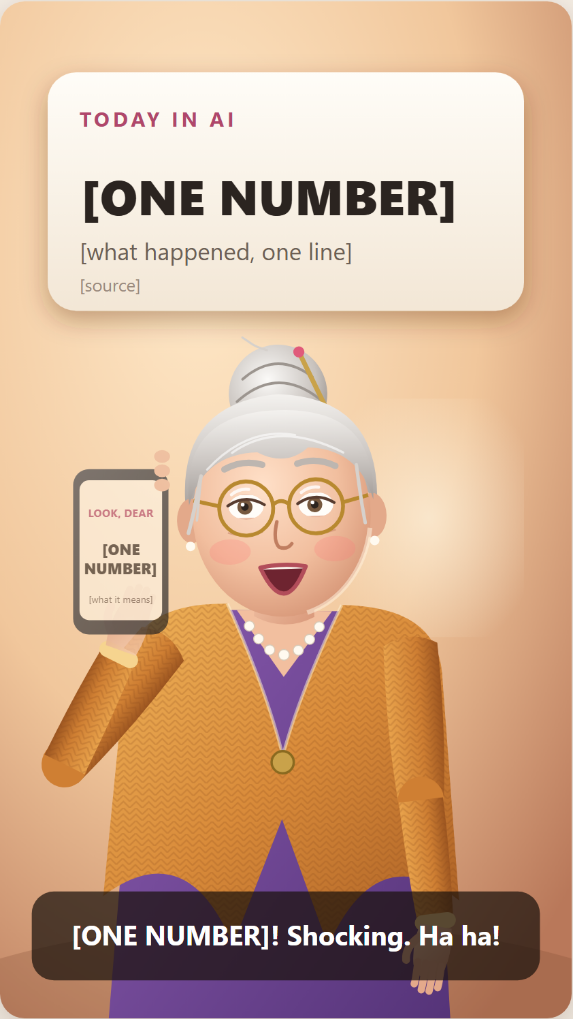
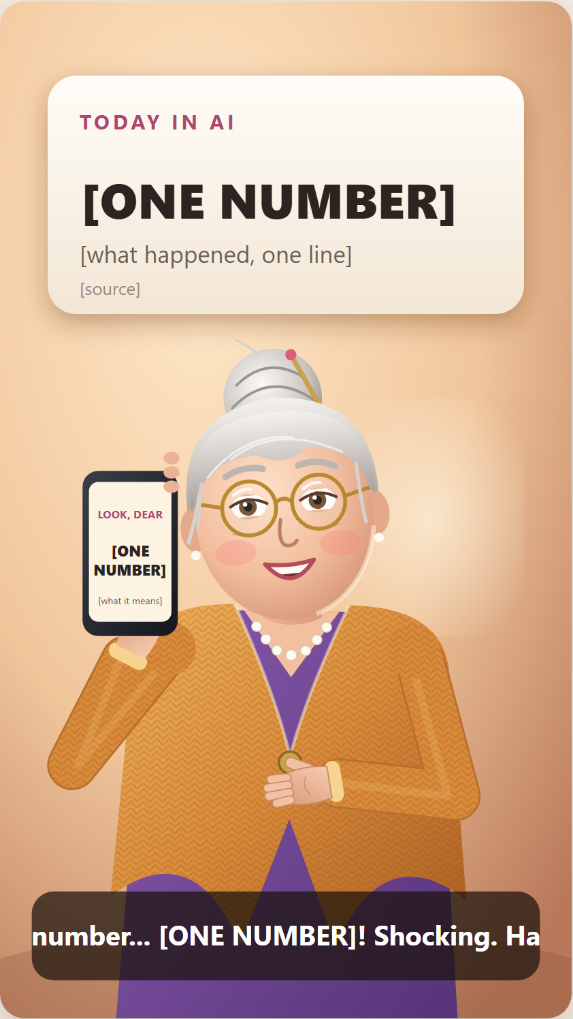
recap-hosts: continuous tapered arms, fuller hands, phone pose fix, head-turn foreshortening
Claude-Session: https://claude.ai/code/session_01XLP2hGqkmrH6KbGBKwUiDd

diff --git a/recap-hosts/js/gigi.js b/recap-hosts/js/gigi.js
@@ -17,26 +17,34 @@ function noise(seed){const p=[rnd(0,6.28),rnd(0,6.28),rnd(0,6.28)];return t=>(Ma
 function buildArm(side){
   const g=$(side<0?'armL':'armR');
   const sx=side*80, sy=-36;
+  // one continuous sleeve: shoulder->elbow->wrist drawn as round-joined strokes in the same fill (updated per frame)
+  const sleeveDark=el('path',{fill:'none',stroke:'#b8702f','stroke-width':31.5,'stroke-linecap':'round','stroke-linejoin':'round'},g);
+  const sleeve=el('path',{fill:'none',stroke:'#d98b3a','stroke-width':29,'stroke-linecap':'round','stroke-linejoin':'round'},g);
+  const sleeveKnit=el('path',{fill:'none',stroke:'url(#knit)','stroke-width':29,'stroke-linecap':'round','stroke-linejoin':'round'},g);
+  const sleeveHi=el('path',{fill:'none',stroke:'#f6c27a','stroke-opacity':.22,'stroke-width':5,'stroke-linecap':'round','stroke-linejoin':'round'},g);
+  // shawl drapes over the top of the sleeve, so the arm reads as coming out from under it
+  el('ellipse',{cx:side*-3,cy:-2,rx:17,ry:17,fill:'#d98b3a'},g);
+  el('ellipse',{cx:side*-3,cy:-2,rx:17,ry:17,fill:'url(#knit)'},g);
   const up=el('g',{},g);
-  el('path',{d:'M-17 -6 Q-19 50 -14 96 L14 96 Q19 50 17 -6 Q0 -16 -17 -6 Z',fill:'url(#sleeveG)'},up);
-  el('path',{d:'M-17 -6 Q-19 50 -14 96 L14 96 Q19 50 17 -6 Q0 -16 -17 -6 Z',fill:'url(#knit)'},up);
   const fo=el('g',{},up);
-  el('circle',{cx:0,cy:0,r:14.5,fill:'#cf7f33'},fo);
-  el('path',{d:'M-14 0 Q-14 44 -11 80 L11 80 Q14 44 14 0 Z',fill:'url(#sleeveG)'},fo);
-  el('path',{d:'M-14 0 Q-14 44 -11 80 L11 80 Q14 44 14 0 Z',fill:'url(#knit)'},fo);
-  el('rect',{x:-13,y:72,width:26,height:10,rx:5,fill:'#f6d48f'},fo);
   const hand=el('g',{},fo);
-  // relaxed / open hand
+  el('rect',{x:-13,y:-8,width:26,height:10,rx:5,fill:'#f6d48f'},hand);
+  const sk='#eab296', skD='#c98a6c';
+  const finger=(par,x1,y1,x2,y2,w)=>{el('path',{d:`M${x1} ${y1} L${x2} ${y2}`,stroke:skD,fill:'none','stroke-width':w+1.4,'stroke-linecap':'round'},par);el('path',{d:`M${x1} ${y1} L${x2} ${y2}`,stroke:'#f2c0a2',fill:'none','stroke-width':w,'stroke-linecap':'round'},par);};
+  // relaxed / open hand: palm + thumb + 4 fingers
   const open=el('g',{},hand);
-  el('path',{d:`M-10 0 Q-13 14 -10 26 Q-6 34 0 34 Q8 34 10 26 Q13 14 10 0 Z`,fill:'url(#skinL)'},open);
-  for(let i=0;i<4;i++){const x=-7.5+i*5;el('path',{d:`M${x} 24 Q${x+0.5} 36 ${x} ${38+(i==1||i==2?3:0)}`,stroke:'#e4a98b',fill:'none','stroke-width':4.6,'stroke-linecap':'round'},open);}
-  el('path',{d:`M${side*-9} 8 Q${side*-17} 16 ${side*-15} 24`,stroke:'#eab296',fill:'none','stroke-width':5,'stroke-linecap':'round'},open);
-  // pointing hand (fist + index finger)
+  finger(open,side*-8,8,side*-16,22,6);
+  el('path',{d:`M-10 0 Q-13 14 -10 25 Q-5 31 0 31 Q7 31 10 25 Q13 14 10 0 Z`,fill:'url(#skinL)',stroke:skD,'stroke-width':.8},open);
+  [[-7,36],[-2.4,39],[2.4,39],[7,35]].forEach(([x,y])=>finger(open,x,26,x*1.1,y,4.6));
+  el('path',{d:'M-6 14 Q0 18 6 13',stroke:skD,fill:'none','stroke-width':.9,opacity:.7},open);
+  // pointing hand: fist with curled knuckles + extended index + thumb
   const point=el('g',{opacity:0},hand);
-  el('path',{d:'M-10 0 Q-13 14 -10 24 Q-4 32 2 31 Q10 30 11 22 Q13 12 10 0 Z',fill:'url(#skinL)'},point);
-  el('path',{d:'M-6 26 Q-3 30 1 29 M2 28 Q6 30 9 26',stroke:'#c98a6c',fill:'none','stroke-width':1.2},point);
-  el('path',{d:`M${side*4} 24 L${side*4} 50`,stroke:'#eeb699',fill:'none','stroke-width':6,'stroke-linecap':'round'},point);
-  el('path',{d:`M${side*-9} 8 Q${side*-14} 16 ${side*-6} 22`,stroke:'#eab296',fill:'none','stroke-width':5,'stroke-linecap':'round'},point);
+  el('path',{d:'M-10 0 Q-13 14 -10 24 Q-4 32 2 31 Q10 30 11 22 Q13 12 10 0 Z',fill:'url(#skinL)',stroke:skD,'stroke-width':.8},point);
+  [-5,0,5].forEach(x=>el('ellipse',{cx:x-side*2,cy:28,rx:3,ry:3.4,fill:'#f2c0a2',stroke:skD,'stroke-width':.8},point));
+  finger(point,side*6,24,side*6,50,5.4);
+  el('ellipse',{cx:side*6,cy:49,rx:1.6,ry:1.3,fill:'#fbe3d6'},point);
+  finger(point,side*-9,8,side*-3,24,5.6);
+  const arm={sleeve:[sleeveDark,sleeve,sleeveKnit,sleeveHi]};
   // phone hand: hand + upright phone
   const phone=el('g',{opacity:0},hand);
   el('path',{d:'M-10 0 Q-13 14 -10 26 Q-6 34 0 34 Q8 34 10 26 Q13 14 10 0 Z',fill:'url(#skinL)'},phone);
@@ -50,7 +58,7 @@ function buildArm(side){
   el('text',{x:0,y:32,'text-anchor':'middle','font-size':6,fill:'#6d5f55'},phInner).textContent='[what it means]';
   // fingers wrapped over phone edge
   for(let i=0;i<3;i++)el('ellipse',{cx:side*-26,cy:-60+i*9,rx:5,ry:4,fill:'#eab296'},phInner);
-  return {g,sx,sy,up,fo,hand,open,point,phone,ph,side,
+  return {g,sx,sy,up,fo,hand,open,point,phone,ph,side,sleeves:arm.sleeve,
     a1:new S(0,38,9),a2:new S(0,30,7.5),a3:new S(0,55,9),
     pOpen:new S(1,60,14),pPoint:new S(0,60,14),pPhone:new S(0,60,14)};
 }
@@ -62,7 +70,7 @@ R.g.setAttribute('transform',`translate(${R.sx} ${R.sy})`);
 // [a1, a2(relative), a3(relative), handPose]
 const POSE={
   restL:[-8,-50,-14,'open'], restR:[8,50,14,'open'],
-  pointR:[-150,-8,-4,'point'],
+  pointR:[-156,-2,-4,'point'],
   psstL:[30,152,-6,'point'],
   phoneL:[38,168,0,'phone'],
   explainL:[24,-176,12,'open'], explainR:[-24,176,-12,'open'],
@@ -151,7 +159,7 @@ function gesture(name,hold){
   explainOn=false;lookAtCard=0;gestName=name;
   if(name==='point'){setArm(R,POSE.pointR);setArm(L,POSE.restL);lookAtCard=1;head.yaw.v+=40;head.roll.v-=30;done(hold||2.6);}
   else if(name==='psst'){setArm(L,POSE.psstL);setArm(R,POSE.restR);setExpr('sly');head.roll.v+=40;done(hold||2.4);}
-  else if(name==='phone'){setArm(L,POSE.phoneL);setArm(R,POSE.restR);head.pitch.v+=20;done(hold||3);}
+  else if(name==='phone'){setArm(L,POSE.phoneL);setArm(R,[-14,112,-14,'open']);head.pitch.v+=20;done(hold||3);}
   else if(name==='explain'){setArm(L,POSE.explainL);setArm(R,POSE.explainR);explainOn=true;done(hold||3.2);}
   else if(name==='shock'){setArm(L,POSE.shockL);setArm(R,POSE.shockR);setExpr('surprised');head.dy.v-=60;head.pitch.v-=60;done(hold||2);}
   else if(name==='laugh'){setArm(L,POSE.laughL);setArm(R,POSE.laughR);setExpr('laughing');laughOn=hold||2.4;done(hold||2.6);}
@@ -178,7 +186,7 @@ function startWord(i){wIdx=i;wStart=talkT;const W=words[i];if(!W)return;
   else if(c)gesture(c, c==='phone'?3.6:undefined);
   if(!c&&i%6===3&&gestName==='rest')gesture('explain',1.8);
   $('capText').textContent=captionFor(i);}
-function captionFor(i){const s=Math.max(0,i-2);return words.slice(s,s+5).map(x=>x.w).join(' ');}
+function captionFor(i){const s=Math.max(0,i-2);return words.slice(s,s+4).map(x=>x.w).join(' ');}
 function say(text,silent){stopTalk();const P=parse(text);words=P.out;talking=true;talkT=0;wIdx=-1;lastBoundary=-1;
   $('caption').setAttribute('opacity',1);setExpr('happy');
   const useVoice=!silent&&soundOn&&'speechSynthesis' in window;
@@ -265,6 +273,14 @@ function render(dt){
   // eyes
   const lidU=Math.min(1,ex.lidU.x+blink*(1-ex.lidU.x)), lidL=ex.lidL.x*(1-blink*0.3);
   const asy=ex.asym.x;
+  // turning: the far side of the face foreshortens
+  const sqL=1-Math.max(0,-hy)*0.32, sqR=1-Math.max(0,hy)*0.32;
+  $('eyeL').setAttribute('transform',`translate(-22 -126) scale(${sqL.toFixed(3)} 1)`);
+  $('eyeR').setAttribute('transform',`translate(22 -126) scale(${sqR.toFixed(3)} 1)`);
+  $('lensL').setAttribute('transform',`translate(-22 -125) scale(${sqL.toFixed(3)} 1) translate(22 125)`);
+  $('lensR').setAttribute('transform',`translate(22 -125) scale(${sqR.toFixed(3)} 1) translate(-22 125)`);
+  $('browL').firstElementChild.setAttribute('transform',`scale(${sqL.toFixed(3)} 1)`);
+  $('browR').firstElementChild.setAttribute('transform',`scale(${sqR.toFixed(3)} 1)`);
   [['eyeL',-1],['eyeR',1]].forEach(([id,s])=>{const g=$(id);
     const lu=Math.min(1,lidU+(s<0?-asy*0.02:asy*0.035)), ll=lidL;
     const uh=lu*17, lh=ll*9;
@@ -300,6 +316,10 @@ function render(dt){
     const idle=(A===L?nz.armL:nz.armR)(T*0.6)*2;
     const a1=A.a1.x+idle, a2=A.a2.x+idle*0.6, a3=A.a3.x+idle;
     A.up.setAttribute('transform',`rotate(${f1(a1)})`);
+    {const r1=a1*D,r2=(a1+a2)*D;const ex_=-92*Math.sin(r1),ey_=92*Math.cos(r1);const wx=ex_-74*Math.sin(r2),wy=ey_+74*Math.cos(r2);
+     const sx0=-4*Math.sin(r1),sy0=4*Math.cos(r1);
+     const d=`M${f1(sx0)} ${f1(sy0)} L${f1(ex_)} ${f1(ey_)} L${f1(wx)} ${f1(wy)}`;
+     A.sleeves.forEach((p,i)=>p.setAttribute('d',i===3?`M${f1(sx0-6*Math.cos(r1)*A.side)} ${f1(sy0)} L${f1(ex_-5*Math.cos(r1)*A.side)} ${f1(ey_)} L${f1(wx-4*Math.cos(r2)*A.side)} ${f1(wy)}`:d));}
     A.fo.setAttribute('transform',`translate(0 92) rotate(${f1(a2)})`);
     A.hand.setAttribute('transform',`translate(0 80) rotate(${f1(a3)})`);
     A.open.setAttribute('opacity',f1(A.pOpen.x));A.point.setAttribute('opacity',f1(A.pPoint.x));A.phone.setAttribute('opacity',f1(A.pPhone.x));

diff --git a/recap-hosts/index.html b/recap-hosts/index.html
@@ -122,9 +122,8 @@ button[aria-pressed="true"]{outline:2px solid var(--acc)}
         <path id="mouthLine" d="" fill="none" stroke="#b24d5a" stroke-width="2.6" stroke-linecap="round" stroke-linejoin="round"/>
       </g>
       <g id="glasses" fill="none" stroke="#b8892f" stroke-width="2.4">
-        <circle cx="-22" cy="-125" r="17" fill="#fff" fill-opacity=".08"/><circle cx="22" cy="-125" r="17" fill="#fff" fill-opacity=".08"/>
+        <g id="lensL"><circle cx="-22" cy="-125" r="17" fill="#fff" fill-opacity=".08"/><path d="M-31 -134 Q-26 -138 -20 -137" stroke="#fff" stroke-opacity=".8" stroke-width="2" stroke-linecap="round"/></g><g id="lensR"><circle cx="22" cy="-125" r="17" fill="#fff" fill-opacity=".08"/><path d="M13 -134 Q18 -138 24 -137" stroke="#fff" stroke-opacity=".8" stroke-width="2" stroke-linecap="round"/></g>
         <path d="M-5 -127 Q0 -131 5 -127 M-39 -127 L-55 -131 M39 -127 L55 -131"/>
-        <path d="M-31 -134 Q-26 -138 -20 -137 M13 -134 Q18 -138 24 -137" stroke="#fff" stroke-opacity=".8" stroke-width="2" stroke-linecap="round"/>
       </g>
     </g>
     <g id="anchorL" transform="translate(-50 -146)"></g>
@@ -137,7 +136,7 @@ button[aria-pressed="true"]{outline:2px solid var(--acc)}
   <g id="armR"></g>
  </g>
 </g>
-<g id="caption" opacity="0"><rect id="capBg" x="20" y="560" width="320" height="56" rx="14" fill="#1b120c" fill-opacity=".72"/><text id="capText" x="180" y="594" text-anchor="middle" font-size="17" font-weight="700" fill="#fff"></text></g>
+<g id="caption" opacity="0"><rect id="capBg" x="20" y="560" width="320" height="56" rx="14" fill="#1b120c" fill-opacity=".72"/><text id="capText" x="180" y="594" text-anchor="middle" font-size="15" font-weight="700" fill="#fff"></text></g>
 </svg>
 </div>
 <div class="panel">
